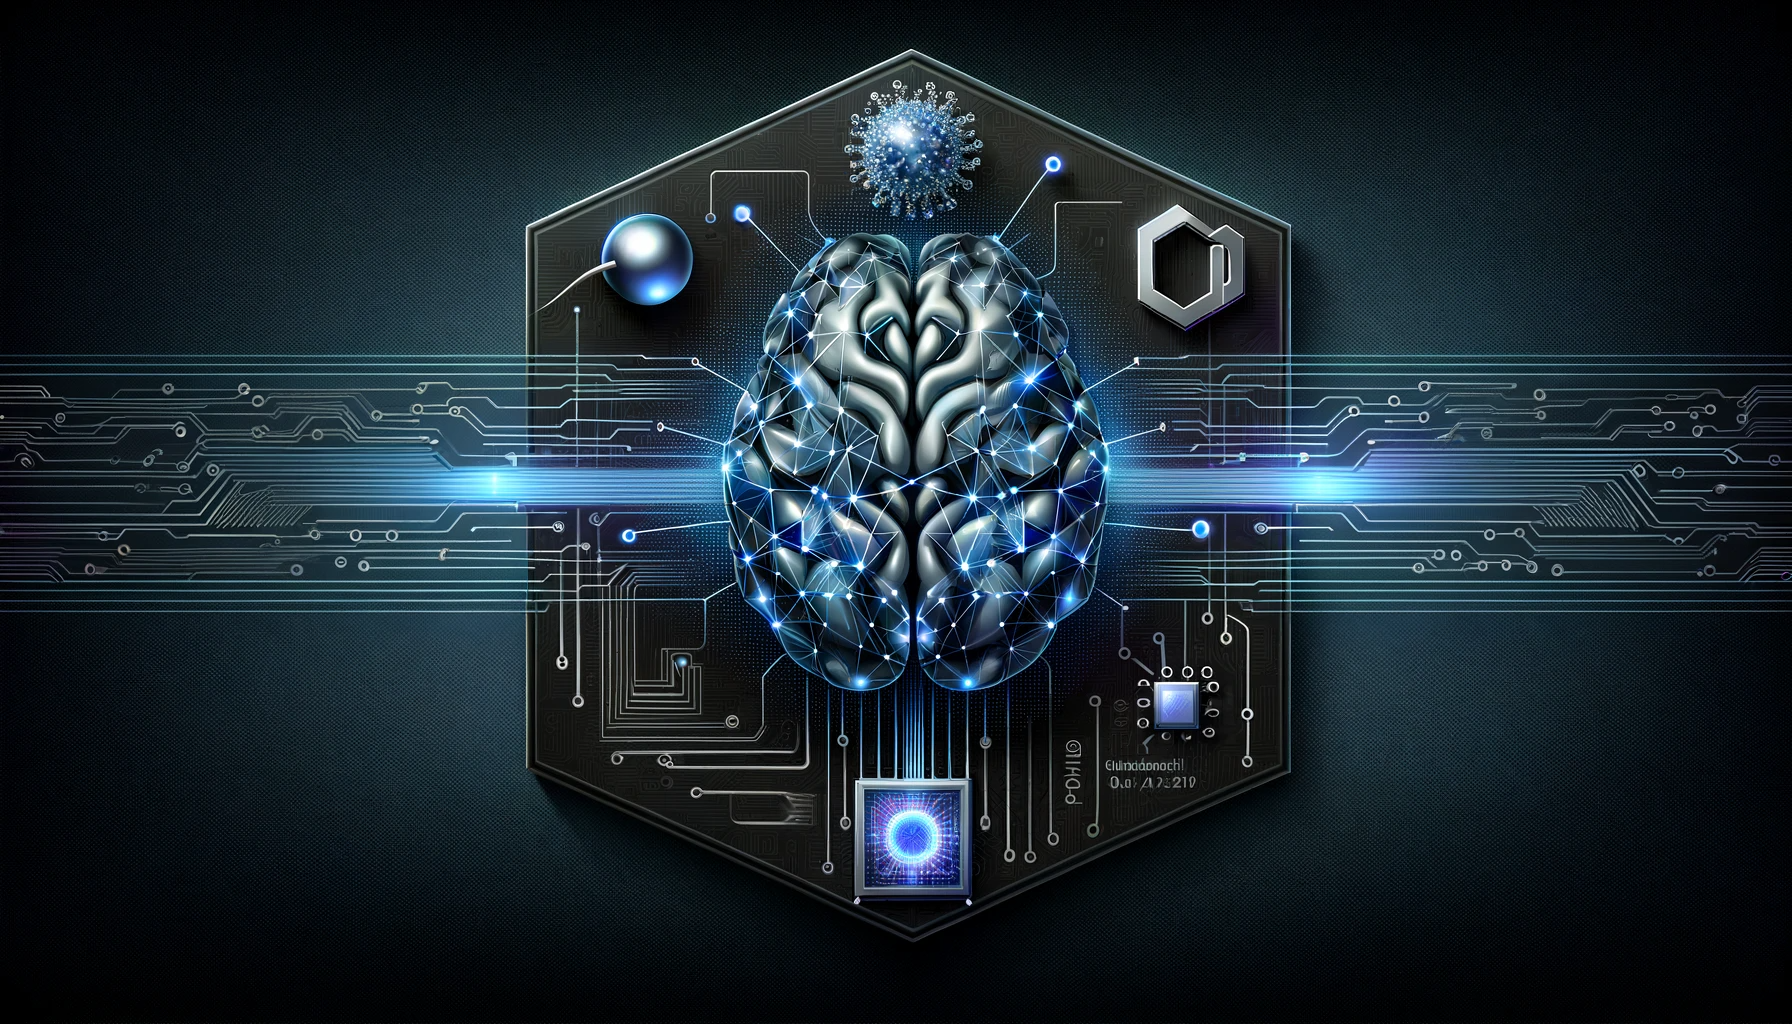
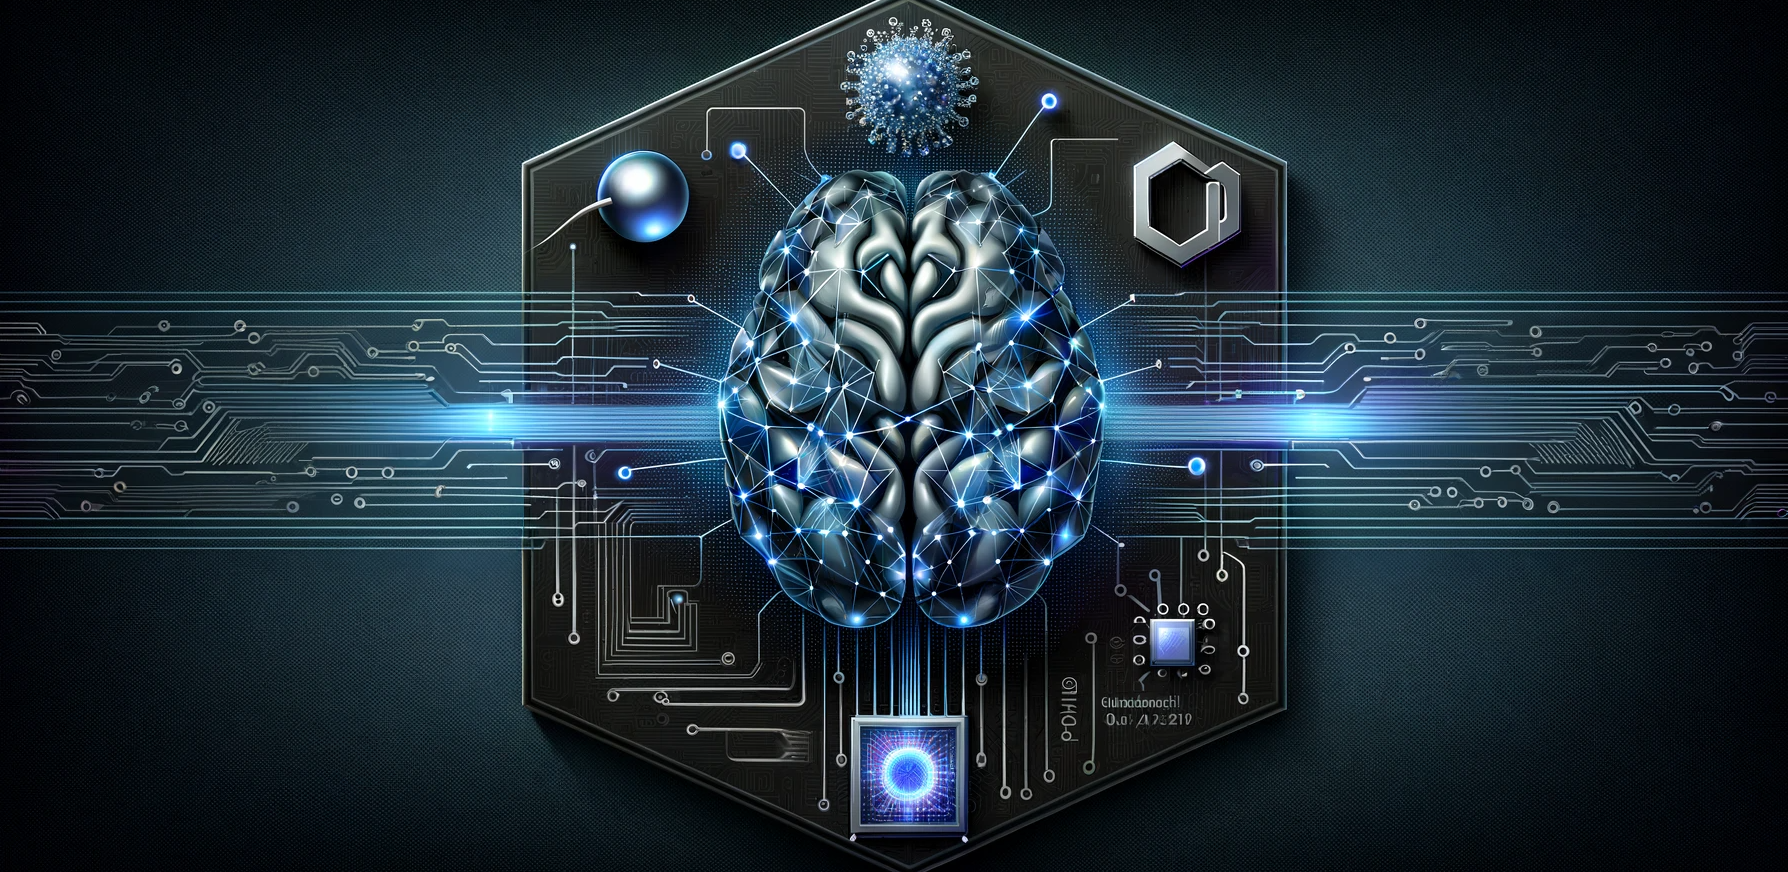
dgd

diff --git a/index.html b/index.html
@@ -15,7 +15,7 @@
 <body>
 
     <div class="banner">
-        <img src="assets/bannernecoqum_v1.png" alt="Conference Template Banner", style="width: 100%; height: 100%;">
+        <img src="assets/bannernecoqum_v2.png" alt="Conference Template Banner", style="width: 100%; height: 100%;">
         <div class="top-left">
             <span class="title1">Neuromorphic Computing</span> <span class="title3">Meets</span><span class="title2">Quantum Mechanics</span> <span class="year">2024</span>
         </div>

diff --git a/program/index.html b/program/index.html
@@ -18,7 +18,7 @@
 <body>
 
     <div class="banner">
-        <img src="assets/bannernecoqum_v1.png" alt="Conference Template Banner", style="width: 100%; height: 100%;">
+        <img src="assets/bannernecoqum_v2.png" alt="Conference Template Banner", style="width: 100%; height: 100%;">
         <div class="top-left">
             <span class="title1">Neuromorphic Computing</span> <span class="title3">Meets</span><span class="title2">Quantum Mechanics</span> <span class="year">2024</span>
         </div>

diff --git a/schedule/index.html b/schedule/index.html
@@ -15,7 +15,7 @@
 <body>
 
     <div class="banner">
-        <img src="assets/bannernecoqum_v1.png" alt="Conference Template Banner", style="width: 100%; height: 100%;">
+        <img src="assets/bannernecoqum_v2.png" alt="Conference Template Banner", style="width: 100%; height: 100%;">
         <div class="top-left">
             <span class="title1">Neuromorphic Computing</span> <span class="title3">Meets</span><span class="title2">Quantum Mechanics</span> <span class="year">2024</span>
         </div>
